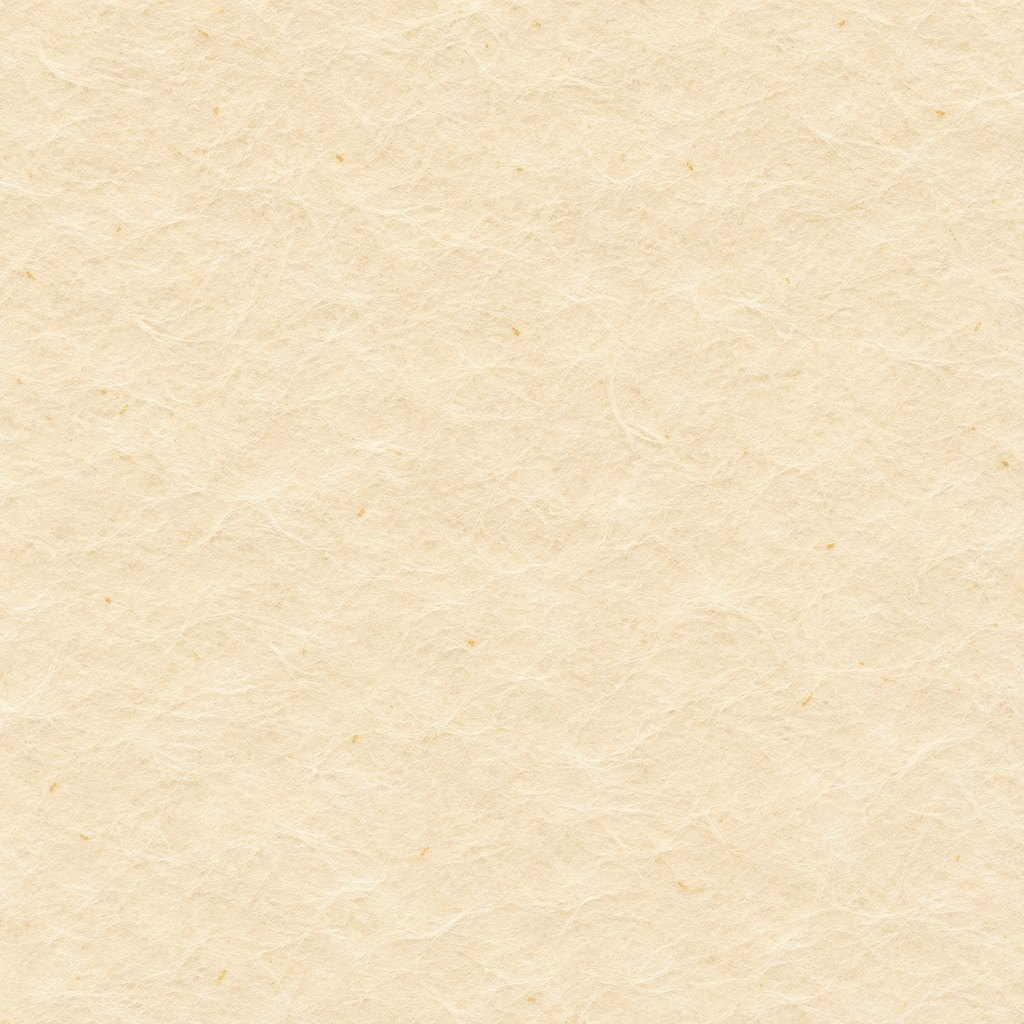
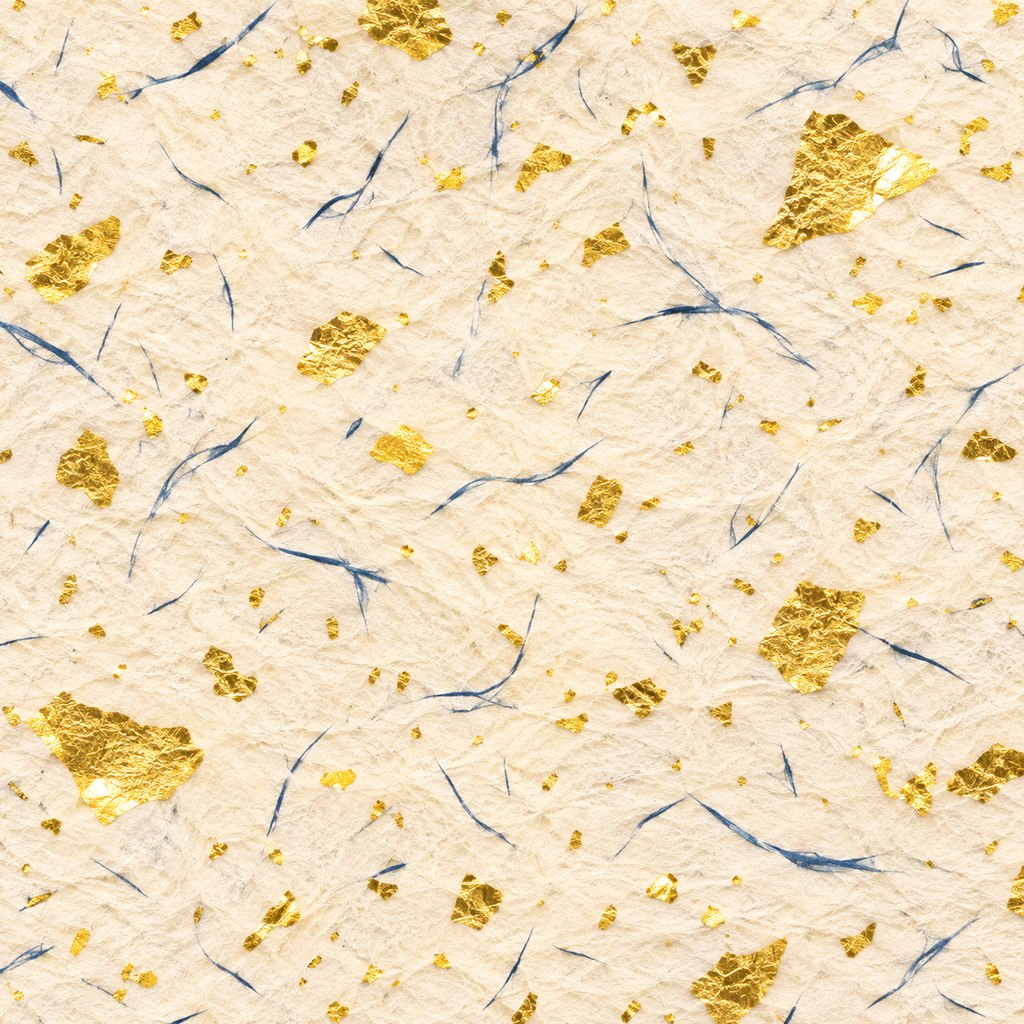
🕒 2026-11-14 20:44:04
案12を金箔を散らした和紙に差し替え

Changed region(s): [[0.0, 0.0, 1.0, 1.0], [0.3125, 0.9688, 0.3438, 1.0]]

diff --git a/js/content.js b/js/content.js
@@ -71,7 +71,7 @@ const CONTENT = {
       figures: [
         {
           src: "assets/images/dp-set-12.jpg",
-          alt: "今回の作例。和柄のデジタルペーパー12枚。青海波、麻の葉、市松、桜の花びら、七宝、矢絣、亀甲と小花、梅と枝、鱗、小さな鳥と波、菊と流水、和紙のテクスチャが4列3段に並んでいる",
+          alt: "今回の作例。和柄のデジタルペーパー12枚。青海波、麻の葉、市松、桜の花びら、七宝、矢絣、亀甲と小花、梅と枝、鱗、小さな鳥と波、菊と流水、金箔を散らした和紙が4列3段に並んでいる",
           caption: "今回の作例。藍色・生成り・えんじ色・金茶・若草色でそろえた、和柄12枚です。",
           zoom: true,
         },
@@ -116,7 +116,7 @@ const CONTENT = {
           "案9　鱗（うろこ）",
           "案10　小さな鳥と波",
           "案11　菊と流水",
-          "案12　和紙のテクスチャ",
+          "案12　金箔を散らした和紙",
         ],
       },
     },

diff --git a/docs/requirements.md b/docs/requirements.md
@@ -29,6 +29,6 @@
 
 ## 5. 作例
 
-和柄のデジタルペーパー12枚（青海波・麻の葉・市松・桜・七宝・矢絣・亀甲・梅・鱗・鳥と波・菊と流水・和紙）はCodexの画像生成で作成（和柄12種・藍／生成り／えんじ／金茶／若草・各1254×1254px）。実際にChatGPTで同じプロンプトを実行した結果とは異なる場合がある。
+和柄のデジタルペーパー12枚（青海波・麻の葉・市松・桜・七宝・矢絣・亀甲・梅・鱗・鳥と波・菊と流水・金箔を散らした和紙）はCodexの画像生成で作成（和柄12種・藍／生成り／えんじ／金茶／若草・各1254×1254px）。実際にChatGPTで同じプロンプトを実行した結果とは異なる場合がある。
 
 作例の12案は制作側で設計し、各案を②相当のプロンプトで画像化した（ChatGPTが返した案ではない）。ページでは「12案の例（今回の作例）」と表記。
